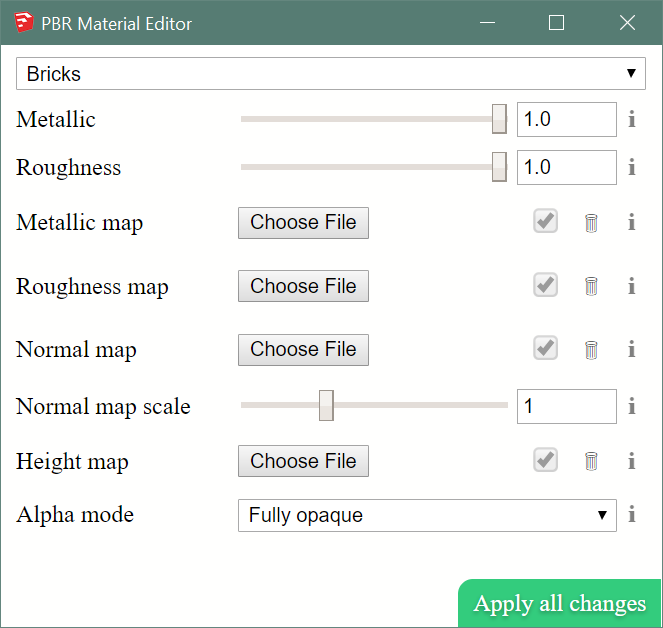
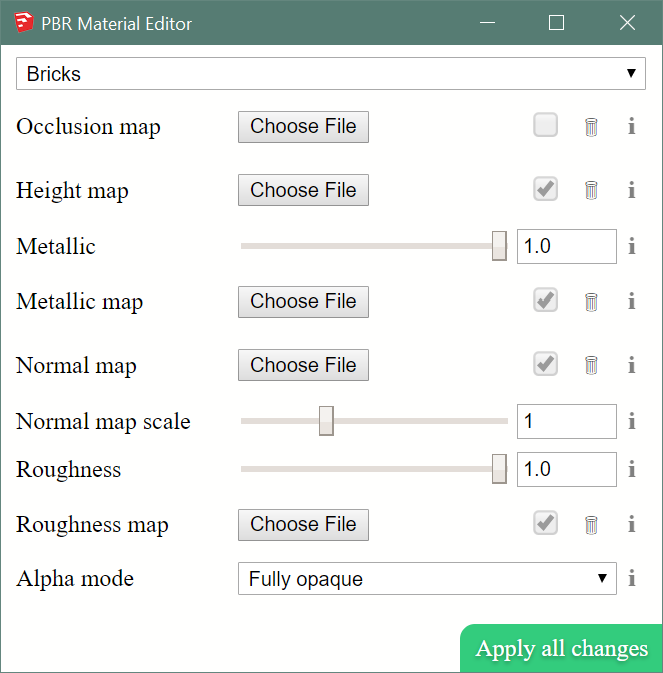
Support ambient occlusion maps.

diff --git a/source/pbr/Viewport App/lib/claygl.modded.js b/source/pbr/Viewport App/lib/claygl.modded.js
@@ -19981,7 +19981,7 @@ var Orthographic$1 = Camera.extend(
     }
 });
 
-var standardEssl = "\n@export clay.standard.chunk.varying\nvarying vec2 v_Texcoord;\nvarying vec3 v_Normal;\nvarying vec3 v_WorldPosition;\nvarying vec3 v_Barycentric;\n#if defined(PARALLAXOCCLUSIONMAP_ENABLED) || defined(NORMALMAP_ENABLED)\nvarying vec3 v_Tangent;\nvarying vec3 v_Bitangent;\n#endif\n#if defined(AOMAP_ENABLED)\nvarying vec2 v_Texcoord2;\n#endif\n#ifdef VERTEX_COLOR\nvarying vec4 v_Color;\n#endif\n@end\n@export clay.standard.chunk.light_header\n#ifdef AMBIENT_LIGHT_COUNT\n@import clay.header.ambient_light\n#endif\n#ifdef AMBIENT_SH_LIGHT_COUNT\n@import clay.header.ambient_sh_light\n#endif\n#ifdef AMBIENT_CUBEMAP_LIGHT_COUNT\n@import clay.header.ambient_cubemap_light\n#endif\n#ifdef POINT_LIGHT_COUNT\n@import clay.header.point_light\n#endif\n#ifdef DIRECTIONAL_LIGHT_COUNT\n@import clay.header.directional_light\n#endif\n#ifdef SPOT_LIGHT_COUNT\n@import clay.header.spot_light\n#endif\n@end\n@export clay.standard.vertex\n#define SHADER_NAME standard\nuniform mat4 worldViewProjection : WORLDVIEWPROJECTION;\nuniform mat4 worldInverseTranspose : WORLDINVERSETRANSPOSE;\nuniform mat4 world : WORLD;\nuniform vec2 uvRepeat = vec2(1.0, 1.0);\nuniform vec2 uvOffset = vec2(0.0, 0.0);\nattribute vec3 position : POSITION;\nattribute vec2 texcoord : TEXCOORD_0;\n#if defined(AOMAP_ENABLED)\nattribute vec2 texcoord2 : TEXCOORD_1;\n#endif\nattribute vec3 normal : NORMAL;\nattribute vec4 tangent : TANGENT;\n#ifdef VERTEX_COLOR\nattribute vec4 a_Color : COLOR;\n#endif\nattribute vec3 barycentric;\n@import clay.standard.chunk.varying\n@import clay.chunk.skinning_header\n@import clay.chunk.instancing_header\nvoid main()\n{\n vec4 skinnedPosition = vec4(position, 1.0);\n vec4 skinnedNormal = vec4(normal, 0.0);\n vec4 skinnedTangent = vec4(tangent.xyz, 0.0);\n#ifdef SKINNING\n @import clay.chunk.skin_matrix\n skinnedPosition = skinMatrixWS * skinnedPosition;\n skinnedNormal = skinMatrixWS * skinnedNormal;\n skinnedTangent = skinMatrixWS * skinnedTangent;\n#endif\n#ifdef INSTANCING\n @import clay.chunk.instancing_matrix\n skinnedPosition = instanceMat * skinnedPosition;\n skinnedNormal = instanceMat * skinnedNormal;\n skinnedTangent = instanceMat * skinnedTangent;\n#endif\n gl_Position = worldViewProjection * skinnedPosition;\n v_Texcoord = texcoord * uvRepeat + uvOffset;\n v_WorldPosition = (world * skinnedPosition).xyz;\n v_Barycentric = barycentric;\n v_Normal = normalize((worldInverseTranspose * skinnedNormal).xyz);\n#if defined(PARALLAXOCCLUSIONMAP_ENABLED) || defined(NORMALMAP_ENABLED)\n v_Tangent = normalize((worldInverseTranspose * skinnedTangent).xyz);\n v_Bitangent = normalize(cross(v_Normal, v_Tangent) * tangent.w);\n#endif\n#ifdef VERTEX_COLOR\n v_Color = a_Color;\n#endif\n#if defined(AOMAP_ENABLED)\n v_Texcoord2 = texcoord2;\n#endif\n}\n@end\n@export clay.standard.fragment\n#define PI 3.14159265358979\n#define GLOSSINESS_CHANNEL 0\n#define ROUGHNESS_CHANNEL 0\n#define METALNESS_CHANNEL 1\n#define DIFFUSEMAP_ALPHA_ALPHA\n@import clay.standard.chunk.varying\nuniform mat4 viewInverse : VIEWINVERSE;\n#ifdef NORMALMAP_ENABLED\nuniform sampler2D normalMap;\n#endif\nuniform float normalScale: 1.0;\n#ifdef DIFFUSEMAP_ENABLED\nuniform sampler2D diffuseMap;\n#endif\n#ifdef SPECULARMAP_ENABLED\nuniform sampler2D specularMap;\n#endif\n#ifdef USE_ROUGHNESS\nuniform float roughness : 0.5;\n #ifdef ROUGHNESSMAP_ENABLED\nuniform sampler2D roughnessMap;\n #endif\n#else\nuniform float glossiness: 0.5;\n #ifdef GLOSSINESSMAP_ENABLED\nuniform sampler2D glossinessMap;\n #endif\n#endif\n#ifdef METALNESSMAP_ENABLED\nuniform sampler2D metalnessMap;\n#endif\n#ifdef OCCLUSIONMAP_ENABLED\nuniform sampler2D occlusionMap;\n#endif\n#ifdef ENVIRONMENTMAP_ENABLED\nuniform samplerCube environmentMap;\n #ifdef PARALLAX_CORRECTED\nuniform vec3 environmentBoxMin;\nuniform vec3 environmentBoxMax;\n #endif\n#endif\n#ifdef BRDFLOOKUP_ENABLED\nuniform sampler2D brdfLookup;\n#endif\n#ifdef EMISSIVEMAP_ENABLED\nuniform sampler2D emissiveMap;\n#endif\n#ifdef SSAOMAP_ENABLED\nuniform sampler2D ssaoMap;\nuniform vec4 viewport : VIEWPORT;\n#endif\n#ifdef AOMAP_ENABLED\nuniform sampler2D aoMap;\nuniform float aoIntensity;\n#endif\nuniform vec3 color : [1.0, 1.0, 1.0];\nuniform float alpha : 1.0;\n#ifdef ALPHA_TEST\nuniform float alphaCutoff: 0.9;\n#endif\n#ifdef USE_METALNESS\nuniform float metalness : 0.0;\n#else\nuniform vec3 specularColor : [0.1, 0.1, 0.1];\n#endif\nuniform vec3 emission : [0.0, 0.0, 0.0];\nuniform float emissionIntensity: 1;\nuniform float lineWidth : 0.0;\nuniform vec4 lineColor : [0.0, 0.0, 0.0, 0.6];\n#ifdef ENVIRONMENTMAP_PREFILTER\nuniform float maxMipmapLevel: 5;\n#endif\n@import clay.standard.chunk.light_header\n@import clay.util.calculate_attenuation\n@import clay.util.edge_factor\n@import clay.util.rgbm\n@import clay.util.srgb\n@import clay.plugin.compute_shadow_map\n@import clay.util.parallax_correct\n@import clay.util.ACES\nfloat G_Smith(float g, float ndv, float ndl)\n{\n float roughness = 1.0 - g;\n float k = roughness * roughness / 2.0;\n float G1V = ndv / (ndv * (1.0 - k) + k);\n float G1L = ndl / (ndl * (1.0 - k) + k);\n return G1L * G1V;\n}\nvec3 F_Schlick(float ndv, vec3 spec) {\n return spec + (1.0 - spec) * pow(1.0 - ndv, 5.0);\n}\nfloat D_Phong(float g, float ndh) {\n float a = pow(8192.0, g);\n return (a + 2.0) / 8.0 * pow(ndh, a);\n}\nfloat D_GGX(float g, float ndh) {\n float r = 1.0 - g;\n float a = r * r;\n float tmp = ndh * ndh * (a - 1.0) + 1.0;\n return a / (PI * tmp * tmp);\n}\n#ifdef PARALLAXOCCLUSIONMAP_ENABLED\nuniform float parallaxOcclusionScale : 0.02;\nuniform float parallaxMaxLayers : 20;\nuniform float parallaxMinLayers : 5;\nuniform sampler2D parallaxOcclusionMap;\nmat3 transpose(in mat3 inMat)\n{\n vec3 i0 = inMat[0];\n vec3 i1 = inMat[1];\n vec3 i2 = inMat[2];\n return mat3(\n vec3(i0.x, i1.x, i2.x),\n vec3(i0.y, i1.y, i2.y),\n vec3(i0.z, i1.z, i2.z)\n );\n}\nvec2 parallaxUv(vec2 uv, vec3 viewDir)\n{\n float numLayers = mix(parallaxMaxLayers, parallaxMinLayers, abs(dot(vec3(0.0, 0.0, 1.0), viewDir)));\n float layerHeight = 1.0 / numLayers;\n float curLayerHeight = 0.0;\n vec2 deltaUv = viewDir.xy * parallaxOcclusionScale / (viewDir.z * numLayers);\n vec2 curUv = uv;\n float height = 1.0 - texture2D(parallaxOcclusionMap, curUv).r;\n for (int i = 0; i < 30; i++) {\n curLayerHeight += layerHeight;\n curUv -= deltaUv;\n height = 1.0 - texture2D(parallaxOcclusionMap, curUv).r;\n if (height < curLayerHeight) {\n break;\n }\n }\n vec2 prevUv = curUv + deltaUv;\n float next = height - curLayerHeight;\n float prev = 1.0 - texture2D(parallaxOcclusionMap, prevUv).r - curLayerHeight + layerHeight;\n return mix(curUv, prevUv, next / (next - prev));\n}\n#endif\nvoid main() {\n vec4 albedoColor = vec4(color, alpha);\n#ifdef VERTEX_COLOR\n albedoColor *= v_Color;\n#endif\n#ifdef SRGB_DECODE\n albedoColor = sRGBToLinear(albedoColor);\n#endif\n vec3 eyePos = viewInverse[3].xyz;\n vec3 V = normalize(eyePos - v_WorldPosition);\n vec2 uv = v_Texcoord;\n#if defined(PARALLAXOCCLUSIONMAP_ENABLED) || defined(NORMALMAP_ENABLED)\n mat3 tbn = mat3(v_Tangent, v_Bitangent, v_Normal);\n#endif\n#ifdef PARALLAXOCCLUSIONMAP_ENABLED\n uv = parallaxUv(v_Texcoord, normalize(transpose(tbn) * -V));\n#endif\n#ifdef DIFFUSEMAP_ENABLED\n vec4 texel = texture2D(diffuseMap, uv);\n #ifdef SRGB_DECODE\n texel = sRGBToLinear(texel);\n #endif\n albedoColor.rgb *= texel.rgb;\n #ifdef DIFFUSEMAP_ALPHA_ALPHA\n albedoColor.a *= texel.a;\n #endif\n#endif\n#ifdef USE_METALNESS\n float m = metalness;\n #ifdef METALNESSMAP_ENABLED\n float m2 = texture2D(metalnessMap, uv)[METALNESS_CHANNEL];\n m = clamp(m2 + (m - 0.5) * 2.0, 0.0, 1.0);\n #endif\n vec3 baseColor = albedoColor.rgb;\n albedoColor.rgb = baseColor * (1.0 - m);\n vec3 spec = mix(vec3(0.04), baseColor, m);\n#else\n vec3 spec = specularColor;\n#endif\n#ifdef USE_ROUGHNESS\n float g = clamp(1.0 - roughness, 0.0, 1.0);\n #ifdef ROUGHNESSMAP_ENABLED\n float g2 = 1.0 - texture2D(roughnessMap, uv)[ROUGHNESS_CHANNEL];\n g = clamp(g2 + (g - 0.5) * 2.0, 0.0, 1.0);\n #endif\n#else\n float g = glossiness;\n #ifdef GLOSSINESSMAP_ENABLED\n float g2 = texture2D(glossinessMap, uv)[GLOSSINESS_CHANNEL];\n g = clamp(g2 + (g - 0.5) * 2.0, 0.0, 1.0);\n #endif\n#endif\n#ifdef SPECULARMAP_ENABLED\n spec *= sRGBToLinear(texture2D(specularMap, uv)).rgb;\n#endif\n vec3 N = v_Normal;\n#ifdef DOUBLE_SIDED\n if (dot(N, V) < 0.0) {\n N = -N;\n }\n#endif\n#ifdef NORMALMAP_ENABLED\n if (dot(v_Tangent, v_Tangent) > 0.0) {\n vec3 normalTexel = texture2D(normalMap, uv).xyz;\n if (dot(normalTexel, normalTexel) > 0.0) { N = (normalTexel * 2.0 - 1.0);\n N = normalize(N * vec3(normalScale, normalScale, 1.0));\n tbn[1] = -tbn[1];\n N = normalize(tbn * N);\n }\n }\n#endif\n vec3 diffuseTerm = vec3(0.0, 0.0, 0.0);\n vec3 specularTerm = vec3(0.0, 0.0, 0.0);\n float ndv = clamp(dot(N, V), 0.0, 1.0);\n vec3 fresnelTerm = F_Schlick(ndv, spec);\n#ifdef AMBIENT_LIGHT_COUNT\n for(int _idx_ = 0; _idx_ < AMBIENT_LIGHT_COUNT; _idx_++)\n {{\n diffuseTerm += ambientLightColor[_idx_];\n }}\n#endif\n#ifdef AMBIENT_SH_LIGHT_COUNT\n for(int _idx_ = 0; _idx_ < AMBIENT_SH_LIGHT_COUNT; _idx_++)\n {{\n diffuseTerm += calcAmbientSHLight(_idx_, N) * ambientSHLightColor[_idx_];\n }}\n#endif\n#ifdef POINT_LIGHT_COUNT\n#if defined(POINT_LIGHT_SHADOWMAP_COUNT)\n float shadowContribsPoint[POINT_LIGHT_COUNT];\n if(shadowEnabled)\n {\n computeShadowOfPointLights(v_WorldPosition, shadowContribsPoint);\n }\n#endif\n for(int _idx_ = 0; _idx_ < POINT_LIGHT_COUNT; _idx_++)\n {{\n vec3 lightPosition = pointLightPosition[_idx_];\n vec3 lc = pointLightColor[_idx_];\n float range = pointLightRange[_idx_];\n vec3 L = lightPosition - v_WorldPosition;\n float dist = length(L);\n float attenuation = lightAttenuation(dist, range);\n L /= dist;\n vec3 H = normalize(L + V);\n float ndl = clamp(dot(N, L), 0.0, 1.0);\n float ndh = clamp(dot(N, H), 0.0, 1.0);\n float shadowContrib = 1.0;\n#if defined(POINT_LIGHT_SHADOWMAP_COUNT)\n if(shadowEnabled)\n {\n shadowContrib = shadowContribsPoint[_idx_];\n }\n#endif\n vec3 li = lc * ndl * attenuation * shadowContrib;\n diffuseTerm += li;\n specularTerm += li * fresnelTerm * D_Phong(g, ndh);\n }}\n#endif\n#ifdef DIRECTIONAL_LIGHT_COUNT\n#if defined(DIRECTIONAL_LIGHT_SHADOWMAP_COUNT)\n float shadowContribsDir[DIRECTIONAL_LIGHT_COUNT];\n if(shadowEnabled)\n {\n computeShadowOfDirectionalLights(v_WorldPosition, shadowContribsDir);\n }\n#endif\n for(int _idx_ = 0; _idx_ < DIRECTIONAL_LIGHT_COUNT; _idx_++)\n {{\n vec3 L = -normalize(directionalLightDirection[_idx_]);\n vec3 lc = directionalLightColor[_idx_];\n vec3 H = normalize(L + V);\n float ndl = clamp(dot(N, L), 0.0, 1.0);\n float ndh = clamp(dot(N, H), 0.0, 1.0);\n float shadowContrib = 1.0;\n#if defined(DIRECTIONAL_LIGHT_SHADOWMAP_COUNT)\n if(shadowEnabled)\n {\n shadowContrib = shadowContribsDir[_idx_];\n }\n#endif\n vec3 li = lc * ndl * shadowContrib;\n diffuseTerm += li;\n specularTerm += li * fresnelTerm * D_Phong(g, ndh);\n }}\n#endif\n#ifdef SPOT_LIGHT_COUNT\n#if defined(SPOT_LIGHT_SHADOWMAP_COUNT)\n float shadowContribsSpot[SPOT_LIGHT_COUNT];\n if(shadowEnabled)\n {\n computeShadowOfSpotLights(v_WorldPosition, shadowContribsSpot);\n }\n#endif\n for(int i = 0; i < SPOT_LIGHT_COUNT; i++)\n {\n vec3 lightPosition = spotLightPosition[i];\n vec3 spotLightDirection = -normalize(spotLightDirection[i]);\n vec3 lc = spotLightColor[i];\n float range = spotLightRange[i];\n float a = spotLightUmbraAngleCosine[i];\n float b = spotLightPenumbraAngleCosine[i];\n float falloffFactor = spotLightFalloffFactor[i];\n vec3 L = lightPosition - v_WorldPosition;\n float dist = length(L);\n float attenuation = lightAttenuation(dist, range);\n L /= dist;\n float c = dot(spotLightDirection, L);\n float falloff;\n falloff = clamp((c - a) /(b - a), 0.0, 1.0);\n falloff = pow(falloff, falloffFactor);\n vec3 H = normalize(L + V);\n float ndl = clamp(dot(N, L), 0.0, 1.0);\n float ndh = clamp(dot(N, H), 0.0, 1.0);\n float shadowContrib = 1.0;\n#if defined(SPOT_LIGHT_SHADOWMAP_COUNT)\n if (shadowEnabled)\n {\n shadowContrib = shadowContribsSpot[i];\n }\n#endif\n vec3 li = lc * attenuation * (1.0 - falloff) * shadowContrib * ndl;\n diffuseTerm += li;\n specularTerm += li * fresnelTerm * D_Phong(g, ndh);\n }\n#endif\n vec4 outColor = albedoColor;\n outColor.rgb *= max(diffuseTerm, vec3(0.0));\n outColor.rgb += max(specularTerm, vec3(0.0));\n#ifdef AMBIENT_CUBEMAP_LIGHT_COUNT\n vec3 L = reflect(-V, N);\n float rough2 = clamp(1.0 - g, 0.0, 1.0);\n float bias2 = rough2 * 5.0;\n vec2 brdfParam2 = texture2D(ambientCubemapLightBRDFLookup[0], vec2(rough2, ndv)).xy;\n vec3 envWeight2 = spec * brdfParam2.x + brdfParam2.y;\n vec3 envTexel2;\n for(int _idx_ = 0; _idx_ < AMBIENT_CUBEMAP_LIGHT_COUNT; _idx_++)\n {{\n #ifdef SUPPORT_TEXTURE_LOD\n envTexel2 = RGBMDecode(textureCubeLodEXT(ambientCubemapLightCubemap[_idx_], L, bias2), 8.12);\n #else\n envTexel2 = RGBMDecode(textureCube(ambientCubemapLightCubemap[_idx_], L), 8.12);\n #endif\n outColor.rgb += ambientCubemapLightColor[_idx_] * envTexel2 * envWeight2;\n }}\n#endif\n#ifdef ENVIRONMENTMAP_ENABLED\n vec3 envWeight = g * fresnelTerm;\n vec3 L = reflect(-V, N);\n #ifdef PARALLAX_CORRECTED\n L = parallaxCorrect(L, v_WorldPosition, environmentBoxMin, environmentBoxMax);\n#endif\n #ifdef ENVIRONMENTMAP_PREFILTER\n float rough = clamp(1.0 - g, 0.0, 1.0);\n float bias = rough * maxMipmapLevel;\n #ifdef SUPPORT_TEXTURE_LOD\n vec3 envTexel = decodeHDR(textureCubeLodEXT(environmentMap, L, bias)).rgb;\n #else\n vec3 envTexel = decodeHDR(textureCube(environmentMap, L)).rgb;\n #endif\n #ifdef BRDFLOOKUP_ENABLED\n vec2 brdfParam = texture2D(brdfLookup, vec2(rough, ndv)).xy;\n envWeight = spec * brdfParam.x + brdfParam.y;\n #endif\n #else\n vec3 envTexel = textureCube(environmentMap, L).xyz;\n #endif\n outColor.rgb += envTexel * envWeight;\n#endif\n float aoFactor = 1.0;\n#ifdef SSAOMAP_ENABLED\n aoFactor = min(texture2D(ssaoMap, (gl_FragCoord.xy - viewport.xy) / viewport.zw).r, aoFactor);\n#endif\n#ifdef AOMAP_ENABLED\n aoFactor = min(1.0 - clamp((1.0 - texture2D(aoMap, v_Texcoord2).r) * aoIntensity, 0.0, 1.0), aoFactor);\n#endif\n#ifdef OCCLUSIONMAP_ENABLED\n aoFactor = min(1.0 - clamp((1.0 - texture2D(occlusionMap, v_Texcoord).r), 0.0, 1.0), aoFactor);\n#endif\n outColor.rgb *= aoFactor;\n vec3 lEmission = emission;\n#ifdef EMISSIVEMAP_ENABLED\n lEmission *= texture2D(emissiveMap, uv).rgb;\n#endif\n outColor.rgb += lEmission * emissionIntensity;\n if(lineWidth > 0.)\n {\n outColor.rgb = mix(outColor.rgb, lineColor.rgb, (1.0 - edgeFactor(lineWidth)) * lineColor.a);\n }\n#ifdef ALPHA_TEST\n if (outColor.a < alphaCutoff) {\n discard;\n }\n#endif\n#ifdef TONEMAPPING\n outColor.rgb = ACESToneMapping(outColor.rgb);\n#endif\n#ifdef SRGB_ENCODE\n outColor = linearTosRGB(outColor);\n#endif\n gl_FragColor = encodeHDR(outColor);\n}\n@end\n@export clay.standardMR.vertex\n@import clay.standard.vertex\n@end\n@export clay.standardMR.fragment\n#define USE_METALNESS\n#define USE_ROUGHNESS\n@import clay.standard.fragment\n@end";
+var standardEssl = "\n@export clay.standard.chunk.varying\nvarying vec2 v_Texcoord;\nvarying vec3 v_Normal;\nvarying vec3 v_WorldPosition;\nvarying vec3 v_Barycentric;\n#if defined(PARALLAXOCCLUSIONMAP_ENABLED) || defined(NORMALMAP_ENABLED)\nvarying vec3 v_Tangent;\nvarying vec3 v_Bitangent;\n#endif\n#if defined(AOMAP_ENABLED)\nvarying vec2 v_Texcoord2;\n#endif\n#ifdef VERTEX_COLOR\nvarying vec4 v_Color;\n#endif\n@end\n@export clay.standard.chunk.light_header\n#ifdef AMBIENT_LIGHT_COUNT\n@import clay.header.ambient_light\n#endif\n#ifdef AMBIENT_SH_LIGHT_COUNT\n@import clay.header.ambient_sh_light\n#endif\n#ifdef AMBIENT_CUBEMAP_LIGHT_COUNT\n@import clay.header.ambient_cubemap_light\n#endif\n#ifdef POINT_LIGHT_COUNT\n@import clay.header.point_light\n#endif\n#ifdef DIRECTIONAL_LIGHT_COUNT\n@import clay.header.directional_light\n#endif\n#ifdef SPOT_LIGHT_COUNT\n@import clay.header.spot_light\n#endif\n@end\n@export clay.standard.vertex\n#define SHADER_NAME standard\nuniform mat4 worldViewProjection : WORLDVIEWPROJECTION;\nuniform mat4 worldInverseTranspose : WORLDINVERSETRANSPOSE;\nuniform mat4 world : WORLD;\nuniform vec2 uvRepeat = vec2(1.0, 1.0);\nuniform vec2 uvOffset = vec2(0.0, 0.0);\nattribute vec3 position : POSITION;\nattribute vec2 texcoord : TEXCOORD_0;\n#if defined(AOMAP_ENABLED)\nattribute vec2 texcoord2 : TEXCOORD_1;\n#endif\nattribute vec3 normal : NORMAL;\nattribute vec4 tangent : TANGENT;\n#ifdef VERTEX_COLOR\nattribute vec4 a_Color : COLOR;\n#endif\nattribute vec3 barycentric;\n@import clay.standard.chunk.varying\n@import clay.chunk.skinning_header\n@import clay.chunk.instancing_header\nvoid main()\n{\n vec4 skinnedPosition = vec4(position, 1.0);\n vec4 skinnedNormal = vec4(normal, 0.0);\n vec4 skinnedTangent = vec4(tangent.xyz, 0.0);\n#ifdef SKINNING\n @import clay.chunk.skin_matrix\n skinnedPosition = skinMatrixWS * skinnedPosition;\n skinnedNormal = skinMatrixWS * skinnedNormal;\n skinnedTangent = skinMatrixWS * skinnedTangent;\n#endif\n#ifdef INSTANCING\n @import clay.chunk.instancing_matrix\n skinnedPosition = instanceMat * skinnedPosition;\n skinnedNormal = instanceMat * skinnedNormal;\n skinnedTangent = instanceMat * skinnedTangent;\n#endif\n gl_Position = worldViewProjection * skinnedPosition;\n v_Texcoord = texcoord * uvRepeat + uvOffset;\n v_WorldPosition = (world * skinnedPosition).xyz;\n v_Barycentric = barycentric;\n v_Normal = normalize((worldInverseTranspose * skinnedNormal).xyz);\n#if defined(PARALLAXOCCLUSIONMAP_ENABLED) || defined(NORMALMAP_ENABLED)\n v_Tangent = normalize((worldInverseTranspose * skinnedTangent).xyz);\n v_Bitangent = normalize(cross(v_Normal, v_Tangent) * tangent.w);\n#endif\n#ifdef VERTEX_COLOR\n v_Color = a_Color;\n#endif\n#if defined(AOMAP_ENABLED)\n v_Texcoord2 = texcoord2;\n#endif\n}\n@end\n@export clay.standard.fragment\n#define PI 3.14159265358979\n#define GLOSSINESS_CHANNEL 0\n#define ROUGHNESS_CHANNEL 0\n#define METALNESS_CHANNEL 1\n#define DIFFUSEMAP_ALPHA_ALPHA\n@import clay.standard.chunk.varying\nuniform mat4 viewInverse : VIEWINVERSE;\n#ifdef NORMALMAP_ENABLED\nuniform sampler2D normalMap;\n#endif\nuniform float normalScale: 1.0;\n#ifdef DIFFUSEMAP_ENABLED\nuniform sampler2D diffuseMap;\n#endif\n#ifdef SPECULARMAP_ENABLED\nuniform sampler2D specularMap;\n#endif\n#ifdef USE_ROUGHNESS\nuniform float roughness : 0.5;\n #ifdef ROUGHNESSMAP_ENABLED\nuniform sampler2D roughnessMap;\n #endif\n#else\nuniform float glossiness: 0.5;\n #ifdef GLOSSINESSMAP_ENABLED\nuniform sampler2D glossinessMap;\n #endif\n#endif\n#ifdef METALNESSMAP_ENABLED\nuniform sampler2D metalnessMap;\n#endif\n#ifdef OCCLUSIONMAP_ENABLED\nuniform sampler2D occlusionMap;\n#endif\n#ifdef ENVIRONMENTMAP_ENABLED\nuniform samplerCube environmentMap;\n #ifdef PARALLAX_CORRECTED\nuniform vec3 environmentBoxMin;\nuniform vec3 environmentBoxMax;\n #endif\n#endif\n#ifdef BRDFLOOKUP_ENABLED\nuniform sampler2D brdfLookup;\n#endif\n#ifdef EMISSIVEMAP_ENABLED\nuniform sampler2D emissiveMap;\n#endif\n#ifdef SSAOMAP_ENABLED\nuniform sampler2D ssaoMap;\nuniform vec4 viewport : VIEWPORT;\n#endif\n#ifdef AOMAP_ENABLED\nuniform sampler2D aoMap;\nuniform float aoIntensity;\n#endif\nuniform vec3 color : [1.0, 1.0, 1.0];\nuniform float alpha : 1.0;\n#ifdef ALPHA_TEST\nuniform float alphaCutoff: 0.9;\n#endif\n#ifdef USE_METALNESS\nuniform float metalness : 0.0;\n#else\nuniform vec3 specularColor : [0.1, 0.1, 0.1];\n#endif\nuniform vec3 emission : [0.0, 0.0, 0.0];\nuniform float emissionIntensity: 1;\nuniform float lineWidth : 0.0;\nuniform vec4 lineColor : [0.0, 0.0, 0.0, 0.6];\n#ifdef ENVIRONMENTMAP_PREFILTER\nuniform float maxMipmapLevel: 5;\n#endif\n@import clay.standard.chunk.light_header\n@import clay.util.calculate_attenuation\n@import clay.util.edge_factor\n@import clay.util.rgbm\n@import clay.util.srgb\n@import clay.plugin.compute_shadow_map\n@import clay.util.parallax_correct\n@import clay.util.ACES\nfloat G_Smith(float g, float ndv, float ndl)\n{\n float roughness = 1.0 - g;\n float k = roughness * roughness / 2.0;\n float G1V = ndv / (ndv * (1.0 - k) + k);\n float G1L = ndl / (ndl * (1.0 - k) + k);\n return G1L * G1V;\n}\nvec3 F_Schlick(float ndv, vec3 spec) {\n return spec + (1.0 - spec) * pow(1.0 - ndv, 5.0);\n}\nfloat D_Phong(float g, float ndh) {\n float a = pow(8192.0, g);\n return (a + 2.0) / 8.0 * pow(ndh, a);\n}\nfloat D_GGX(float g, float ndh) {\n float r = 1.0 - g;\n float a = r * r;\n float tmp = ndh * ndh * (a - 1.0) + 1.0;\n return a / (PI * tmp * tmp);\n}\n#ifdef PARALLAXOCCLUSIONMAP_ENABLED\nuniform float parallaxOcclusionScale : 0.02;\nuniform float parallaxMaxLayers : 20;\nuniform float parallaxMinLayers : 5;\nuniform sampler2D parallaxOcclusionMap;\nmat3 transpose(in mat3 inMat)\n{\n vec3 i0 = inMat[0];\n vec3 i1 = inMat[1];\n vec3 i2 = inMat[2];\n return mat3(\n vec3(i0.x, i1.x, i2.x),\n vec3(i0.y, i1.y, i2.y),\n vec3(i0.z, i1.z, i2.z)\n );\n}\nvec2 parallaxUv(vec2 uv, vec3 viewDir)\n{\n float numLayers = mix(parallaxMaxLayers, parallaxMinLayers, abs(dot(vec3(0.0, 0.0, 1.0), viewDir)));\n float layerHeight = 1.0 / numLayers;\n float curLayerHeight = 0.0;\n vec2 deltaUv = viewDir.xy * parallaxOcclusionScale / (viewDir.z * numLayers);\n vec2 curUv = uv;\n float height = 1.0 - texture2D(parallaxOcclusionMap, curUv).r;\n for (int i = 0; i < 30; i++) {\n curLayerHeight += layerHeight;\n curUv -= deltaUv;\n height = 1.0 - texture2D(parallaxOcclusionMap, curUv).r;\n if (height < curLayerHeight) {\n break;\n }\n }\n vec2 prevUv = curUv + deltaUv;\n float next = height - curLayerHeight;\n float prev = 1.0 - texture2D(parallaxOcclusionMap, prevUv).r - curLayerHeight + layerHeight;\n return mix(curUv, prevUv, next / (next - prev));\n}\n#endif\nvoid main() {\n vec4 albedoColor = vec4(color, alpha);\n#ifdef VERTEX_COLOR\n albedoColor *= v_Color;\n#endif\n#ifdef SRGB_DECODE\n albedoColor = sRGBToLinear(albedoColor);\n#endif\n vec3 eyePos = viewInverse[3].xyz;\n vec3 V = normalize(eyePos - v_WorldPosition);\n vec2 uv = v_Texcoord;\n#if defined(PARALLAXOCCLUSIONMAP_ENABLED) || defined(NORMALMAP_ENABLED)\n mat3 tbn = mat3(v_Tangent, v_Bitangent, v_Normal);\n#endif\n#ifdef PARALLAXOCCLUSIONMAP_ENABLED\n uv = parallaxUv(v_Texcoord, normalize(transpose(tbn) * -V));\n#endif\n#ifdef DIFFUSEMAP_ENABLED\n vec4 texel = texture2D(diffuseMap, uv);\n #ifdef SRGB_DECODE\n texel = sRGBToLinear(texel);\n #endif\n albedoColor.rgb *= texel.rgb;\n #ifdef DIFFUSEMAP_ALPHA_ALPHA\n albedoColor.a *= texel.a;\n #endif\n#endif\n#ifdef USE_METALNESS\n float m = metalness;\n #ifdef METALNESSMAP_ENABLED\n float m2 = texture2D(metalnessMap, uv)[METALNESS_CHANNEL];\n m = clamp(m2 + (m - 0.5) * 2.0, 0.0, 1.0);\n #endif\n vec3 baseColor = albedoColor.rgb;\n albedoColor.rgb = baseColor * (1.0 - m);\n vec3 spec = mix(vec3(0.04), baseColor, m);\n#else\n vec3 spec = specularColor;\n#endif\n#ifdef USE_ROUGHNESS\n float g = clamp(1.0 - roughness, 0.0, 1.0);\n #ifdef ROUGHNESSMAP_ENABLED\n float g2 = 1.0 - texture2D(roughnessMap, uv)[ROUGHNESS_CHANNEL];\n g = clamp(g2 + (g - 0.5) * 2.0, 0.0, 1.0);\n #endif\n#else\n float g = glossiness;\n #ifdef GLOSSINESSMAP_ENABLED\n float g2 = texture2D(glossinessMap, uv)[GLOSSINESS_CHANNEL];\n g = clamp(g2 + (g - 0.5) * 2.0, 0.0, 1.0);\n #endif\n#endif\n#ifdef SPECULARMAP_ENABLED\n spec *= sRGBToLinear(texture2D(specularMap, uv)).rgb;\n#endif\n vec3 N = v_Normal;\n#ifdef DOUBLE_SIDED\n if (dot(N, V) < 0.0) {\n N = -N;\n }\n#endif\n#ifdef NORMALMAP_ENABLED\n if (dot(v_Tangent, v_Tangent) > 0.0) {\n vec3 normalTexel = texture2D(normalMap, uv).xyz;\n if (dot(normalTexel, normalTexel) > 0.0) { N = (normalTexel * 2.0 - 1.0);\n N = normalize(N * vec3(normalScale, normalScale, 1.0));\n tbn[1] = -tbn[1];\n N = normalize(tbn * N);\n }\n }\n#endif\n vec3 diffuseTerm = vec3(0.0, 0.0, 0.0);\n vec3 specularTerm = vec3(0.0, 0.0, 0.0);\n float ndv = clamp(dot(N, V), 0.0, 1.0);\n vec3 fresnelTerm = F_Schlick(ndv, spec);\n#ifdef AMBIENT_LIGHT_COUNT\n for(int _idx_ = 0; _idx_ < AMBIENT_LIGHT_COUNT; _idx_++)\n {{\n diffuseTerm += ambientLightColor[_idx_];\n }}\n#endif\n#ifdef AMBIENT_SH_LIGHT_COUNT\n for(int _idx_ = 0; _idx_ < AMBIENT_SH_LIGHT_COUNT; _idx_++)\n {{\n diffuseTerm += calcAmbientSHLight(_idx_, N) * ambientSHLightColor[_idx_];\n }}\n#endif\n#ifdef POINT_LIGHT_COUNT\n#if defined(POINT_LIGHT_SHADOWMAP_COUNT)\n float shadowContribsPoint[POINT_LIGHT_COUNT];\n if(shadowEnabled)\n {\n computeShadowOfPointLights(v_WorldPosition, shadowContribsPoint);\n }\n#endif\n for(int _idx_ = 0; _idx_ < POINT_LIGHT_COUNT; _idx_++)\n {{\n vec3 lightPosition = pointLightPosition[_idx_];\n vec3 lc = pointLightColor[_idx_];\n float range = pointLightRange[_idx_];\n vec3 L = lightPosition - v_WorldPosition;\n float dist = length(L);\n float attenuation = lightAttenuation(dist, range);\n L /= dist;\n vec3 H = normalize(L + V);\n float ndl = clamp(dot(N, L), 0.0, 1.0);\n float ndh = clamp(dot(N, H), 0.0, 1.0);\n float shadowContrib = 1.0;\n#if defined(POINT_LIGHT_SHADOWMAP_COUNT)\n if(shadowEnabled)\n {\n shadowContrib = shadowContribsPoint[_idx_];\n }\n#endif\n vec3 li = lc * ndl * attenuation * shadowContrib;\n diffuseTerm += li;\n specularTerm += li * fresnelTerm * D_Phong(g, ndh);\n }}\n#endif\n#ifdef DIRECTIONAL_LIGHT_COUNT\n#if defined(DIRECTIONAL_LIGHT_SHADOWMAP_COUNT)\n float shadowContribsDir[DIRECTIONAL_LIGHT_COUNT];\n if(shadowEnabled)\n {\n computeShadowOfDirectionalLights(v_WorldPosition, shadowContribsDir);\n }\n#endif\n for(int _idx_ = 0; _idx_ < DIRECTIONAL_LIGHT_COUNT; _idx_++)\n {{\n vec3 L = -normalize(directionalLightDirection[_idx_]);\n vec3 lc = directionalLightColor[_idx_];\n vec3 H = normalize(L + V);\n float ndl = clamp(dot(N, L), 0.0, 1.0);\n float ndh = clamp(dot(N, H), 0.0, 1.0);\n float shadowContrib = 1.0;\n#if defined(DIRECTIONAL_LIGHT_SHADOWMAP_COUNT)\n if(shadowEnabled)\n {\n shadowContrib = shadowContribsDir[_idx_];\n }\n#endif\n vec3 li = lc * ndl * shadowContrib;\n diffuseTerm += li;\n specularTerm += li * fresnelTerm * D_Phong(g, ndh);\n }}\n#endif\n#ifdef SPOT_LIGHT_COUNT\n#if defined(SPOT_LIGHT_SHADOWMAP_COUNT)\n float shadowContribsSpot[SPOT_LIGHT_COUNT];\n if(shadowEnabled)\n {\n computeShadowOfSpotLights(v_WorldPosition, shadowContribsSpot);\n }\n#endif\n for(int i = 0; i < SPOT_LIGHT_COUNT; i++)\n {\n vec3 lightPosition = spotLightPosition[i];\n vec3 spotLightDirection = -normalize(spotLightDirection[i]);\n vec3 lc = spotLightColor[i];\n float range = spotLightRange[i];\n float a = spotLightUmbraAngleCosine[i];\n float b = spotLightPenumbraAngleCosine[i];\n float falloffFactor = spotLightFalloffFactor[i];\n vec3 L = lightPosition - v_WorldPosition;\n float dist = length(L);\n float attenuation = lightAttenuation(dist, range);\n L /= dist;\n float c = dot(spotLightDirection, L);\n float falloff;\n falloff = clamp((c - a) /(b - a), 0.0, 1.0);\n falloff = pow(falloff, falloffFactor);\n vec3 H = normalize(L + V);\n float ndl = clamp(dot(N, L), 0.0, 1.0);\n float ndh = clamp(dot(N, H), 0.0, 1.0);\n float shadowContrib = 1.0;\n#if defined(SPOT_LIGHT_SHADOWMAP_COUNT)\n if (shadowEnabled)\n {\n shadowContrib = shadowContribsSpot[i];\n }\n#endif\n vec3 li = lc * attenuation * (1.0 - falloff) * shadowContrib * ndl;\n diffuseTerm += li;\n specularTerm += li * fresnelTerm * D_Phong(g, ndh);\n }\n#endif\n vec4 outColor = albedoColor;\n outColor.rgb *= max(diffuseTerm, vec3(0.0));\n outColor.rgb += max(specularTerm, vec3(0.0));\n#ifdef AMBIENT_CUBEMAP_LIGHT_COUNT\n vec3 L = reflect(-V, N);\n float rough2 = clamp(1.0 - g, 0.0, 1.0);\n float bias2 = rough2 * 5.0;\n vec2 brdfParam2 = texture2D(ambientCubemapLightBRDFLookup[0], vec2(rough2, ndv)).xy;\n vec3 envWeight2 = spec * brdfParam2.x + brdfParam2.y;\n vec3 envTexel2;\n for(int _idx_ = 0; _idx_ < AMBIENT_CUBEMAP_LIGHT_COUNT; _idx_++)\n {{\n #ifdef SUPPORT_TEXTURE_LOD\n envTexel2 = RGBMDecode(textureCubeLodEXT(ambientCubemapLightCubemap[_idx_], L, bias2), 8.12);\n #else\n envTexel2 = RGBMDecode(textureCube(ambientCubemapLightCubemap[_idx_], L), 8.12);\n #endif\n outColor.rgb += ambientCubemapLightColor[_idx_] * envTexel2 * envWeight2;\n }}\n#endif\n#ifdef ENVIRONMENTMAP_ENABLED\n vec3 envWeight = g * fresnelTerm;\n vec3 L = reflect(-V, N);\n #ifdef PARALLAX_CORRECTED\n L = parallaxCorrect(L, v_WorldPosition, environmentBoxMin, environmentBoxMax);\n#endif\n #ifdef ENVIRONMENTMAP_PREFILTER\n float rough = clamp(1.0 - g, 0.0, 1.0);\n float bias = rough * maxMipmapLevel;\n #ifdef SUPPORT_TEXTURE_LOD\n vec3 envTexel = decodeHDR(textureCubeLodEXT(environmentMap, L, bias)).rgb;\n #else\n vec3 envTexel = decodeHDR(textureCube(environmentMap, L)).rgb;\n #endif\n #ifdef BRDFLOOKUP_ENABLED\n vec2 brdfParam = texture2D(brdfLookup, vec2(rough, ndv)).xy;\n envWeight = spec * brdfParam.x + brdfParam.y;\n #endif\n #else\n vec3 envTexel = textureCube(environmentMap, L).xyz;\n #endif\n outColor.rgb += envTexel * envWeight;\n#endif\n float aoFactor = 1.0;\n#ifdef SSAOMAP_ENABLED\n aoFactor = min(texture2D(ssaoMap, (gl_FragCoord.xy - viewport.xy) / viewport.zw).r, aoFactor);\n#endif\n#ifdef AOMAP_ENABLED\n aoFactor = min(1.0 - clamp((1.0 - texture2D(aoMap, v_Texcoord2).r) * aoIntensity, 0.0, 1.0), aoFactor);\n#endif\n#ifdef OCCLUSIONMAP_ENABLED\n aoFactor = min(1.0 - clamp((1.0 - texture2D(occlusionMap, v_Texcoord).r), 0.0, 0.7), aoFactor);\n#endif\n outColor.rgb *= aoFactor;\n vec3 lEmission = emission;\n#ifdef EMISSIVEMAP_ENABLED\n lEmission *= texture2D(emissiveMap, uv).rgb;\n#endif\n outColor.rgb += lEmission * emissionIntensity;\n if(lineWidth > 0.)\n {\n outColor.rgb = mix(outColor.rgb, lineColor.rgb, (1.0 - edgeFactor(lineWidth)) * lineColor.a);\n }\n#ifdef ALPHA_TEST\n if (outColor.a < alphaCutoff) {\n discard;\n }\n#endif\n#ifdef TONEMAPPING\n outColor.rgb = ACESToneMapping(outColor.rgb);\n#endif\n#ifdef SRGB_ENCODE\n outColor = linearTosRGB(outColor);\n#endif\n gl_FragColor = encodeHDR(outColor);\n}\n@end\n@export clay.standardMR.vertex\n@import clay.standard.vertex\n@end\n@export clay.standardMR.fragment\n#define USE_METALNESS\n#define USE_ROUGHNESS\n@import clay.standard.fragment\n@end";
 
 // Import standard shader
 Shader['import'](standardEssl);

diff --git a/source/pbr/Viewport App/viewport.js b/source/pbr/Viewport App/viewport.js
@@ -30,7 +30,7 @@ localforage.config({ name: 'PBR Viewport' });
  *
  * @type {object}
  */
-PBR.Viewport.app = {};
+PBR.Viewport.app = null;
 
 /**
  * Viewport configuration.
@@ -84,7 +84,7 @@ PBR.Viewport.cfg.advancedGraphics = {
  *
  * @type {object}
  */
-PBR.Viewport.camera = {};
+PBR.Viewport.camera = null;
 
 /**
  * Viewport natural lights.
@@ -330,6 +330,10 @@ PBR.Viewport.scpInterval = 0;
  */
 PBR.Viewport.saveCameraPosition = function() {
 
+	if ( PBR.Viewport.camera === null ) {
+		return;
+	}
+
 	localforage.setItem('cameraPosition', PBR.Viewport.camera.position.array);
 
 };
@@ -386,6 +390,10 @@ document.addEventListener('DOMContentLoaded', function() {
 
 // When window is resized:
 window.onresize = function() {
+
+	if ( PBR.Viewport.app === null ) {
+		return;
+	}
 
 	PBR.Viewport.app.resize();
 

diff --git a/source/pbr/gltf.rb b/source/pbr/gltf.rb
@@ -195,19 +195,24 @@ module PBR
 
         add_mr_tex(gltf_mat, mat.get_attribute(:pbr, :metalRoughTextureURI))
 
-        add_normal_tex(gltf_mat, mat.get_attribute(:pbr, :normalTextureURI),
-          mat.get_attribute(:pbr, :normalTextureScale))
+        add_normal_tex(gltf_mat,
+          mat.get_attribute(:pbr, :normalTextureURI),
+          mat.get_attribute(:pbr, :normalTextureScale)
+        )
+
+        add_ao_tex(gltf_mat,
+          mat.get_attribute(:pbr, :ambientOcclusionTextureURI)
+        )
 
         update_alpha_mode(gltf_mat, mat.get_attribute(:pbr, :alphaMode))
 
-        add_po_tex(
-          gltf_mat,
+        add_extra_po_tex(gltf_mat,
           mat.get_attribute(:pbr, :parallaxOcclusionTextureURI)
         )
 
       end
 
-      add_lights
+      add_extra_lights
 
       # Tools that generated this glTF model. Useful for debugging.
       @gltf['asset']['generator'] += ", SketchUp PBR plugin v#{VERSION}"
@@ -249,7 +254,7 @@ module PBR
     #
     # @param [String, nil] metal_rough_tex_uri Metal-Rough texture URI or nil.
     #
-    # @return [void]
+    # @return [nil]
     private def add_mr_tex(gltf_mat, metal_rough_tex_uri)
 
       raise ArgumentError, 'Invalid glTF material.' unless gltf_mat.is_a?(Hash)
@@ -271,6 +276,8 @@ module PBR
 
       }
 
+      nil
+
     end
 
     # Adds a normal texture to a glTF material
@@ -282,7 +289,7 @@ module PBR
     # @param [String, nil] normal_tex_uri Normal texture URI or nil.
     # @param [String, Float, nil] normal_tex_scale Normal texture scale or nil.
     #
-    # @return [void]
+    # @return [nil]
     private def add_normal_tex(gltf_mat, normal_tex_uri, normal_tex_scale)
 
       raise ArgumentError, 'Invalid glTF material.' unless gltf_mat.is_a?(Hash)
@@ -305,6 +312,43 @@ module PBR
       # normal vector of the normal texture.
       gltf_mat['normalTexture']['scale'] = normal_tex_scale.to_f\
        unless normal_tex_scale.nil? || normal_tex_scale.to_f == 1.0
+
+      nil
+
+    end
+
+    # Adds an [ambient] occlusion texture to a glTF material
+    # only if URI is provided.
+    #
+    # @param [Hash] gltf_mat glTF material to texture on.
+    # @raise [ArgumentError]
+    #
+    # @param [String, nil] ao_tex_uri Ambient occlusion texture URI or nil.
+    #
+    # @return [nil]
+    private def add_ao_tex(gltf_mat, ao_tex_uri)
+
+      raise ArgumentError, 'Invalid glTF material.' unless gltf_mat.is_a?(Hash)
+
+      return if ao_tex_uri.nil?
+
+      # The [ambient] occlusion map texture.
+      gltf_mat['occlusionTexture'] = {
+
+        # The index of the texture.
+        index: add_texture(ao_tex_uri),
+
+        # The set index of texture's TEXCOORD
+        # property used for coordinate mapping.
+        texCoord: base_color_tex_coord(gltf_mat),
+
+        # A scalar multiplier controlling
+        # the amount of occlusion applied.
+        strength: 0.7
+
+      }
+
+      nil
 
     end
 
@@ -392,7 +436,7 @@ module PBR
     # @param [String, nil] par_occ_tex_uri Parallax occlusion tex. URI or nil.
     #
     # @return [nil]
-    private def add_po_tex(gltf_mat, par_occ_tex_uri)
+    private def add_extra_po_tex(gltf_mat, par_occ_tex_uri)
 
       raise ArgumentError, 'Invalid glTF material.' unless gltf_mat.is_a?(Hash)
 
@@ -410,7 +454,7 @@ module PBR
     # Adds extra lights. XXX This isn't in the spec.
     #
     # @return [nil]
-    private def add_lights
+    private def add_extra_lights
 
       lights = GlTFLights.new.lights
 

diff --git a/source/pbr/material_editor.rb b/source/pbr/material_editor.rb
@@ -98,9 +98,9 @@ module PBR
         scrollable:      true,
         width:           455,
         # @todo Calc. height depending on material attributes count?
-        height:          425,
+        height:          455,
         min_width:       455,
-        min_height:      425
+        min_height:      455
       )
 
     end
@@ -191,6 +191,8 @@ module PBR
 
           metalRoughTextureURI: texture_uri_status(mat, 'metalRoughTextureURI'),
           normalTextureURI: texture_uri_status(mat, 'normalTextureURI'),
+          ambientOcclusionTextureURI:\
+           texture_uri_status(mat, 'ambientOcclusionTextureURI'),
           parallaxOcclusionTextureURI:\
            texture_uri_status(mat, 'parallaxOcclusionTextureURI'),
 

diff --git a/source/pbr/light.rb b/source/pbr/light.rb
@@ -40,6 +40,8 @@ module PBR
 
       @light = Shapes.create_sphere('30cm', 10, 8, LAYER_NAME)
 
+      @light.name = 'PBR Light'
+
       SESSION[:lights_objects_ids].push(@light.object_id.to_i)
 
       @light.add_observer(EntityObserver.new)
